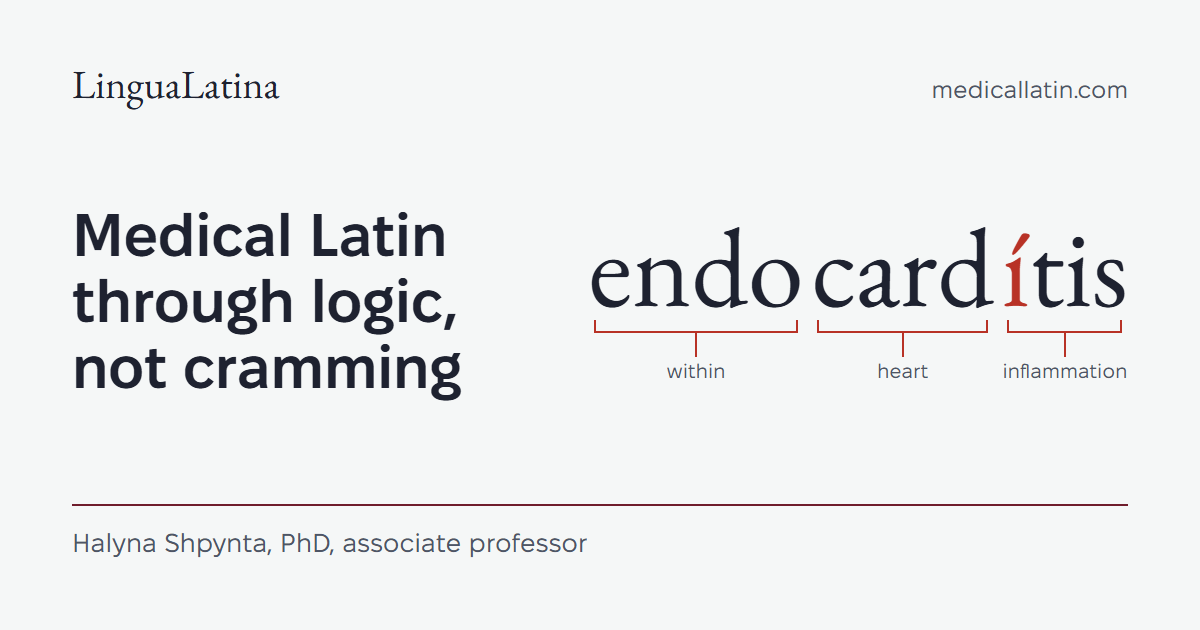
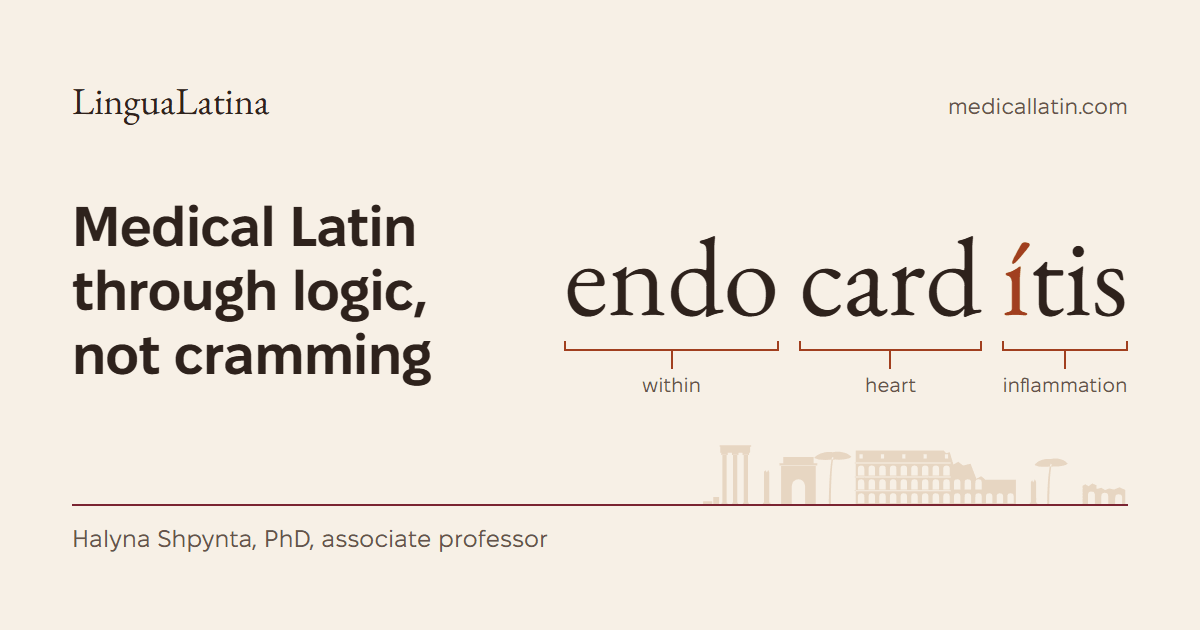
Restyle in warm autumn pastels and open in the light theme
Halyna's feedback: a warm pastel palette in both themes, light for everyone by default (dark only via the switch), faint Rome and library silhouettes, and a shade per course. The favicon and link-preview cards are redrawn in the new palette.

diff --git a/site/assets/css/site.css b/site/assets/css/site.css
@@ -25,14 +25,17 @@
 }
 
 :root {
-  color-scheme: light dark;
-  --paper: #F5F7F7;      /* ward white */
-  --atlas: #E3E9EC;      /* atlas grey */
-  --ink: #1E2230;        /* iron-gall ink */
-  --slate: #4E5566;
-  --maroon: #6F1D2C;     /* praktikum maroon */
-  --red: #B83226;        /* correction red: annotations and focus only */
-  --on-maroon: #FFFFFF;
+  color-scheme: light;
+  /* Warm autumn pastels (Halyna's feedback, Nov 2026). Light is the default for
+     everyone; dark is only used when chosen with the header switch. */
+  --paper: #F7F0E6;      /* linen */
+  --atlas: #EFE2D1;      /* sand: secondary surfaces */
+  --ink: #2E221C;        /* espresso */
+  --slate: #65544A;      /* warm taupe: secondary text */
+  --maroon: #7A2432;     /* praktikum maroon: brand, buttons, links */
+  --red: #A13F1F;        /* rust: annotations and focus only */
+  --on-maroon: #FFF8F0;
+  --deco: #E7D6C2;       /* faint silhouettes of Rome and libraries */
   --rule: color-mix(in srgb, var(--ink) 16%, transparent);
 
   --sans: "Fixel", "Segoe UI", Roboto, system-ui, sans-serif;
@@ -43,31 +46,31 @@
   --measure: 68ch;
 }
 
-/* Dark tokens apply when the device is dark and the visitor hasn't chosen light,
-   or when they chose dark with the header switch (assets/js/theme.js).
-   The two blocks hold the same values: change them together. */
-@media (prefers-color-scheme: dark) {
-  :root:not([data-theme="light"]) {
-    --paper: #171B25;
-    --atlas: #232937;
-    --ink: #E8EBEF;
-    --slate: #AAB1BF;
-    --maroon: #E6A1AC;
-    --red: #FF8B7B;
-    --on-maroon: #171B25;
-  }
-}
+/* Warm dark theme, chosen with the header switch (assets/js/theme.js). */
 :root[data-theme="dark"] {
   color-scheme: dark;
-  --paper: #171B25;
-  --atlas: #232937;
-  --ink: #E8EBEF;
-  --slate: #AAB1BF;
-  --maroon: #E6A1AC;
-  --red: #FF8B7B;
-  --on-maroon: #171B25;
+  --paper: #1E1815;
+  --atlas: #2B231F;
+  --ink: #F2E8DD;
+  --slate: #C5B4A5;
+  --maroon: #EAA99C;
+  --red: #F29A76;
+  --on-maroon: #1E1815;
+  --deco: #2E2520;
 }
-:root[data-theme="light"] { color-scheme: light; }
+
+/* Each course has its own pastel shade (--tint) and a stronger edge (--accent),
+   used on the courses page and in the home page's offers list. */
+[data-course="main"] { --tint: #F5DFC9; --accent: #D49E6A; }
+[data-course="express"] { --tint: #F2DAD4; --accent: #C98E82; }
+[data-course="pronunciation"] { --tint: #E2E7D2; --accent: #9DAD7C; }
+[data-course="trial"] { --tint: #F4E6C4; --accent: #CFAF57; }
+[data-course="individual"] { --tint: #EADDE4; --accent: #B08FA4; }
+:root[data-theme="dark"] [data-course="main"] { --tint: #33271E; --accent: #9C7148; }
+:root[data-theme="dark"] [data-course="express"] { --tint: #352527; --accent: #94635A; }
+:root[data-theme="dark"] [data-course="pronunciation"] { --tint: #282E22; --accent: #6F7D55; }
+:root[data-theme="dark"] [data-course="trial"] { --tint: #342D1C; --accent: #9A8240; }
+:root[data-theme="dark"] [data-course="individual"] { --tint: #2F2630; --accent: #7E6476; }
 
 @media (min-width: 64em) {
   :root {
@@ -349,9 +352,38 @@ strong { font-weight: 600; }
   .booking-bar { display: none; }
 }
 
-/* Hero: one term, taken apart */
+/* Hero: one term, taken apart, above a faint Roman skyline */
 
-.hero { padding-block: 2.5rem var(--section); }
+.hero {
+  --skyline: clamp(6.5rem, 22vw, 12rem);
+  position: relative;
+  isolation: isolate;
+  padding-block: 2.5rem calc(var(--skyline) + 1.5rem);
+}
+
+/* Decorative silhouettes: shapes from an SVG mask, filled with --deco so they
+   follow the theme. Text never sits on them. */
+.hero::before,
+.site-footer::before,
+.page-head--library::before {
+  content: "";
+  position: absolute;
+  z-index: -1;
+  background: var(--deco);
+  -webkit-mask-repeat: no-repeat;
+  mask-repeat: no-repeat;
+  pointer-events: none;
+}
+.hero::before {
+  inset: auto 0 0 0;
+  height: var(--skyline);
+  -webkit-mask-image: url("../img/deco/rome-skyline.svg");
+  mask-image: url("../img/deco/rome-skyline.svg");
+  -webkit-mask-size: auto 100%;
+  mask-size: auto 100%;
+  -webkit-mask-position: 62% 100%;
+  mask-position: 62% 100%;
+}
 
 .hero__inner {
   display: grid;
@@ -369,7 +401,7 @@ strong { font-weight: 600; }
 }
 
 @media (min-width: 64em) {
-  .hero { padding-block: 4.5rem 3rem; }
+  .hero { padding-block: 4.5rem calc(var(--skyline) + 1.5rem); }
   .hero__inner {
     grid-template-columns: minmax(0, 5fr) minmax(0, 7fr);
     grid-template-areas: "text term" "cred term";
@@ -566,7 +598,9 @@ strong { font-weight: 600; }
   grid-template-columns: minmax(0, 1fr) auto;
   gap: 0.25rem 1.5rem;
   padding-block: 1rem;
+  padding-left: 0.875rem;
   border-bottom: 1px solid var(--rule);
+  border-left: 4px solid var(--accent, transparent);
 }
 .offers__name { grid-row: 1; grid-column: 1; font-weight: 600; }
 .offers__price {
@@ -752,8 +786,24 @@ strong { font-weight: 600; }
 /* Footer */
 
 .site-footer {
-  padding-block: 3rem;
+  position: relative;
+  isolation: isolate;
+  padding-block: 5.5rem 3rem;
   border-top: 1px solid var(--rule);
+}
+/* a small copy of the hero skyline, above the motto and aligned with the content column */
+.site-footer::before {
+  top: 0.75rem;
+  left: 50%;
+  width: min(100% - 2 * var(--gutter), 72rem);
+  translate: -50% 0;
+  height: 4rem;
+  -webkit-mask-image: url("../img/deco/rome-skyline.svg");
+  mask-image: url("../img/deco/rome-skyline.svg");
+  -webkit-mask-size: auto 100%;
+  mask-size: auto 100%;
+  -webkit-mask-position: 0 0;
+  mask-position: 0 0;
 }
 .site-footer__inner {
   display: flex;
@@ -783,6 +833,30 @@ strong { font-weight: 600; }
   .page-head { padding-top: 4.5rem; }
 }
 
+/* A faint library bookcase beside the page title (courses and about pages) */
+.page-head--library {
+  position: relative;
+  isolation: isolate;
+}
+/* On narrow screens the bookcase sits beside the title only, so the lede keeps the full width */
+.page-head--library > h1 { padding-right: 5rem; }
+.page-head--library::before {
+  top: 1rem;
+  right: 0;
+  width: 4rem;
+  aspect-ratio: 3 / 4;
+  -webkit-mask-image: url("../img/deco/library.svg");
+  mask-image: url("../img/deco/library.svg");
+  -webkit-mask-size: contain;
+  mask-size: contain;
+}
+@media (min-width: 64em) {
+  /* min-height keeps the bookcase inside a short head (about pages), clear of the content below */
+  .page-head--library { padding-right: 12rem; min-height: 16rem; }
+  .page-head--library > h1 { padding-right: 0; }
+  .page-head--library::before { top: 2.5rem; width: 9rem; }
+}
+
 .with-toc {
   display: grid;
   gap: 1rem;
@@ -795,6 +869,19 @@ strong { font-weight: 600; }
 .toc a {
   display: inline-block;
   padding-block: 0.3rem;
+}
+.toc li[data-course] {
+  display: flex;
+  align-items: center;
+  gap: 0.5rem;
+}
+.toc li[data-course]::before {
+  content: "";
+  flex: none;
+  width: 0.625rem;
+  height: 0.625rem;
+  border-radius: 2px;
+  background: var(--accent);
 }
 .toc__title {
   margin-bottom: 0.25rem;
@@ -814,10 +901,29 @@ strong { font-weight: 600; }
   }
 }
 
-.course { padding-block: var(--section); }
-.course + .course { border-top: 1px solid var(--rule); }
+/* Each course is a panel in its own shade (feedback: courses must differ visually) */
+.course {
+  padding: 2rem 1.25rem;
+  background: var(--tint, var(--atlas));
+  border-top: 4px solid var(--accent, var(--maroon));
+  border-radius: 0.5rem;
+}
+.course + .course { margin-top: 1.5rem; }
 .course > * + * { margin-top: 1.25rem; }
 .course > h3 { margin-top: 2.5rem; }
+.course .start-date { background: var(--paper); }
+.course .faq details,
+.course .facts div { border-color: color-mix(in srgb, var(--ink) 20%, transparent); }
+@media (min-width: 48em) {
+  .course { padding: 2.5rem; }
+}
+@media (min-width: 64em) {
+  .course:first-child { margin-top: var(--section); }
+  .course:last-child { margin-bottom: var(--section); }
+}
+@media (max-width: 63.99em) {
+  .course:last-child { margin-bottom: var(--section); }
+}
 
 .facts {
   max-width: var(--measure);
@@ -963,7 +1069,7 @@ strong { font-weight: 600; }
   .price-table tbody tr {
     margin-bottom: 0.75rem;
     padding: 0.75rem 1rem;
-    background: var(--atlas);
+    background: var(--paper);
     border-radius: 0.25rem;
   }
   .price-table th,

diff --git a/site/assets/js/theme.js b/site/assets/js/theme.js
@@ -1,11 +1,11 @@
-// Light/dark theme. Loaded in <head> without defer, so a saved choice applies before
-// the first paint. With no saved choice, CSS follows the device setting.
-// The choice is kept in localStorage: not a cookie, and never sent to a server.
+// Light/dark theme. The site opens in the warm light theme for everyone; dark is used
+// only after the visitor chooses it with the header switch. Loaded in <head> without
+// defer, so a saved choice applies before the first paint. The choice is kept in
+// localStorage: not a cookie, and never sent to a server.
 (() => {
   const root = document.documentElement;
   const KEY = "theme";
-  const PAPER = { light: "#F5F7F7", dark: "#171B25" };
-  const deviceDark = window.matchMedia("(prefers-color-scheme: dark)");
+  const PAPER = { light: "#F7F0E6", dark: "#1E1815" };
 
   const read = () => {
     try { return localStorage.getItem(KEY); } catch { return null; }
@@ -16,14 +16,12 @@
   };
   const apply = (theme) => {
     root.dataset.theme = theme;
-    document.querySelectorAll('meta[name="theme-color"]').forEach((meta) => {
-      meta.content = PAPER[theme];
-    });
+    const meta = document.querySelector('meta[name="theme-color"]');
+    if (meta) meta.content = PAPER[theme];
   };
-  const current = () => root.dataset.theme || (deviceDark.matches ? "dark" : "light");
+  const current = () => (root.dataset.theme === "dark" ? "dark" : "light");
 
-  const saved = read();
-  if (saved === "light" || saved === "dark") apply(saved);
+  if (read() === "dark") apply("dark");
 
   document.addEventListener("DOMContentLoaded", () => {
     const button = document.querySelector(".theme-toggle");
@@ -37,7 +35,6 @@
 
     sync();
     button.hidden = false;
-    deviceDark.addEventListener("change", sync);
     button.addEventListener("click", () => {
       const next = current() === "dark" ? "light" : "dark";
       apply(next);

diff --git a/site/about/index.html b/site/about/index.html
@@ -19,8 +19,7 @@
   <meta property="og:image:height" content="630">
   <meta property="og:locale" content="uk_UA">
   <meta property="og:locale:alternate" content="en_US">
-  <meta name="theme-color" content="#F5F7F7" media="(prefers-color-scheme: light)">
-  <meta name="theme-color" content="#171B25" media="(prefers-color-scheme: dark)">
+  <meta name="theme-color" content="#F7F0E6">
   <link rel="icon" href="/favicon.svg" type="image/svg+xml">
   <link rel="preload" href="/assets/fonts/fixel-var.woff2" as="font" type="font/woff2" crossorigin>
   <script src="/assets/js/theme.js"></script>
@@ -49,7 +48,7 @@
   </header>
 
   <main id="main">
-    <div class="wrap page-head">
+    <div class="wrap page-head page-head--library">
       <h1>Моя історія</h1>
       <p class="lede">Як я опинилася в медичній латині й чому досі люблю її викладати.</p>
     </div>

diff --git a/site/en/about/index.html b/site/en/about/index.html
@@ -19,8 +19,7 @@
   <meta property="og:image:height" content="630">
   <meta property="og:locale" content="en_US">
   <meta property="og:locale:alternate" content="uk_UA">
-  <meta name="theme-color" content="#F5F7F7" media="(prefers-color-scheme: light)">
-  <meta name="theme-color" content="#171B25" media="(prefers-color-scheme: dark)">
+  <meta name="theme-color" content="#F7F0E6">
   <link rel="icon" href="/favicon.svg" type="image/svg+xml">
   <link rel="preload" href="/assets/fonts/fixel-var.woff2" as="font" type="font/woff2" crossorigin>
   <script src="/assets/js/theme.js"></script>
@@ -49,7 +48,7 @@
   </header>
 
   <main id="main">
-    <div class="wrap page-head">
+    <div class="wrap page-head page-head--library">
       <h1>My story</h1>
       <p class="lede">How I ended up in medical Latin, and why I still love teaching it.</p>
     </div>

diff --git a/site/404.html b/site/404.html
@@ -5,8 +5,7 @@
   <meta name="viewport" content="width=device-width, initial-scale=1">
   <title>Сторінку не знайдено | Page not found | LinguaLatina</title>
   <meta name="robots" content="noindex">
-  <meta name="theme-color" content="#F5F7F7" media="(prefers-color-scheme: light)">
-  <meta name="theme-color" content="#171B25" media="(prefers-color-scheme: dark)">
+  <meta name="theme-color" content="#F7F0E6">
   <link rel="icon" href="/favicon.svg" type="image/svg+xml">
   <script src="/assets/js/theme.js"></script>
   <link rel="stylesheet" href="/assets/css/site.css">
